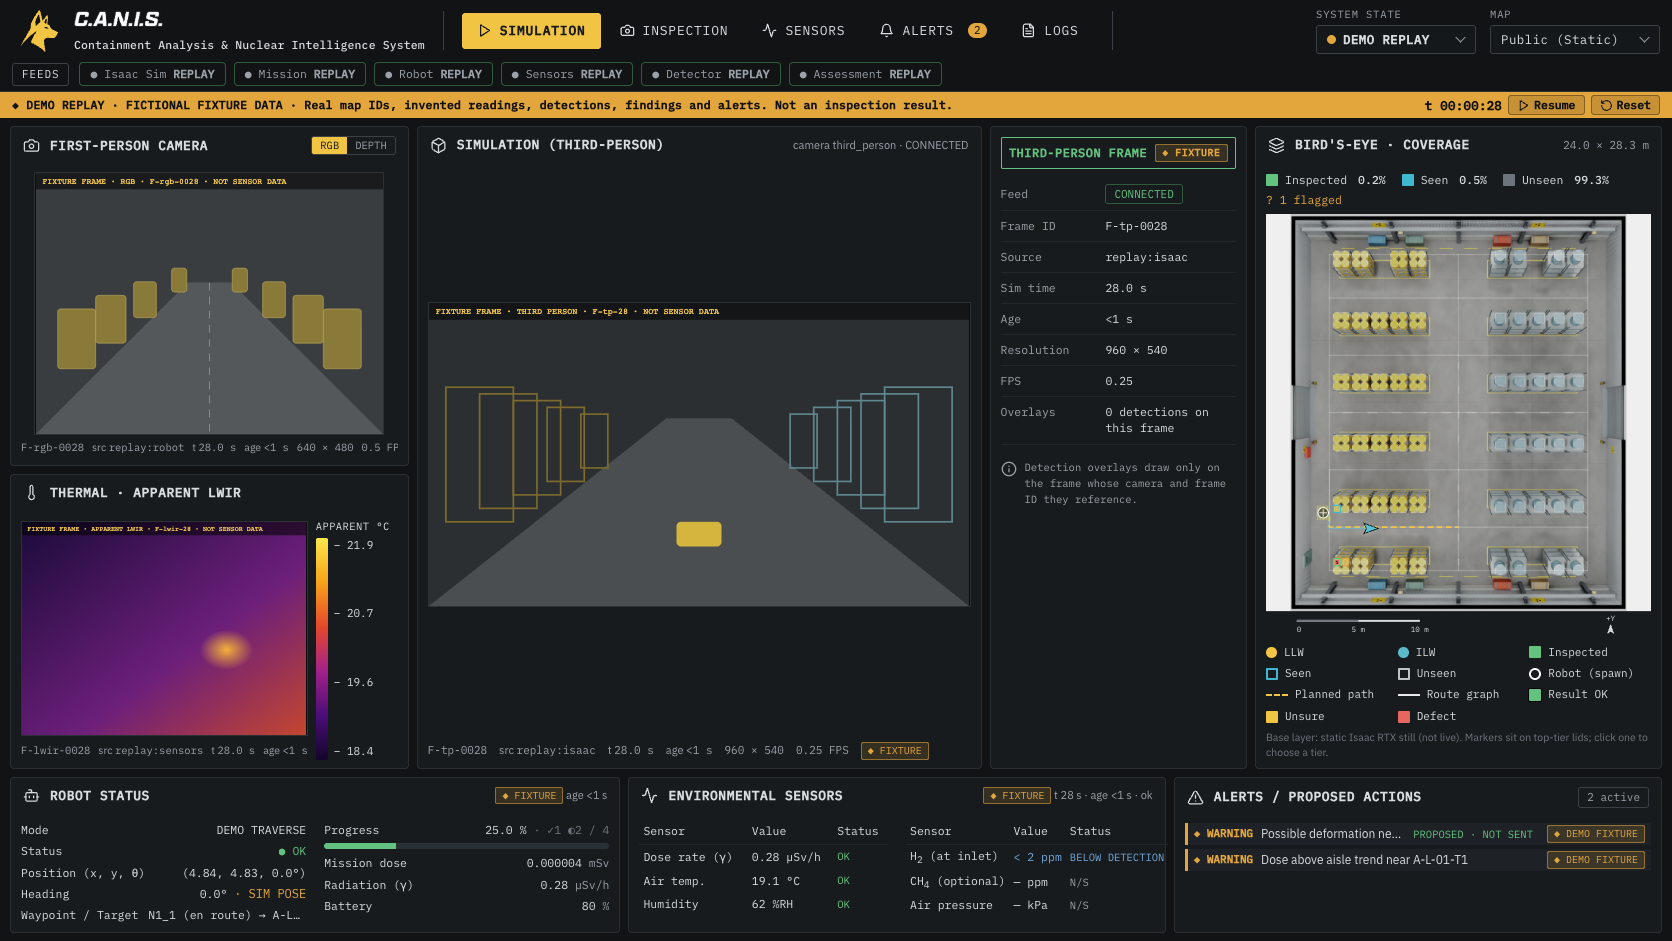
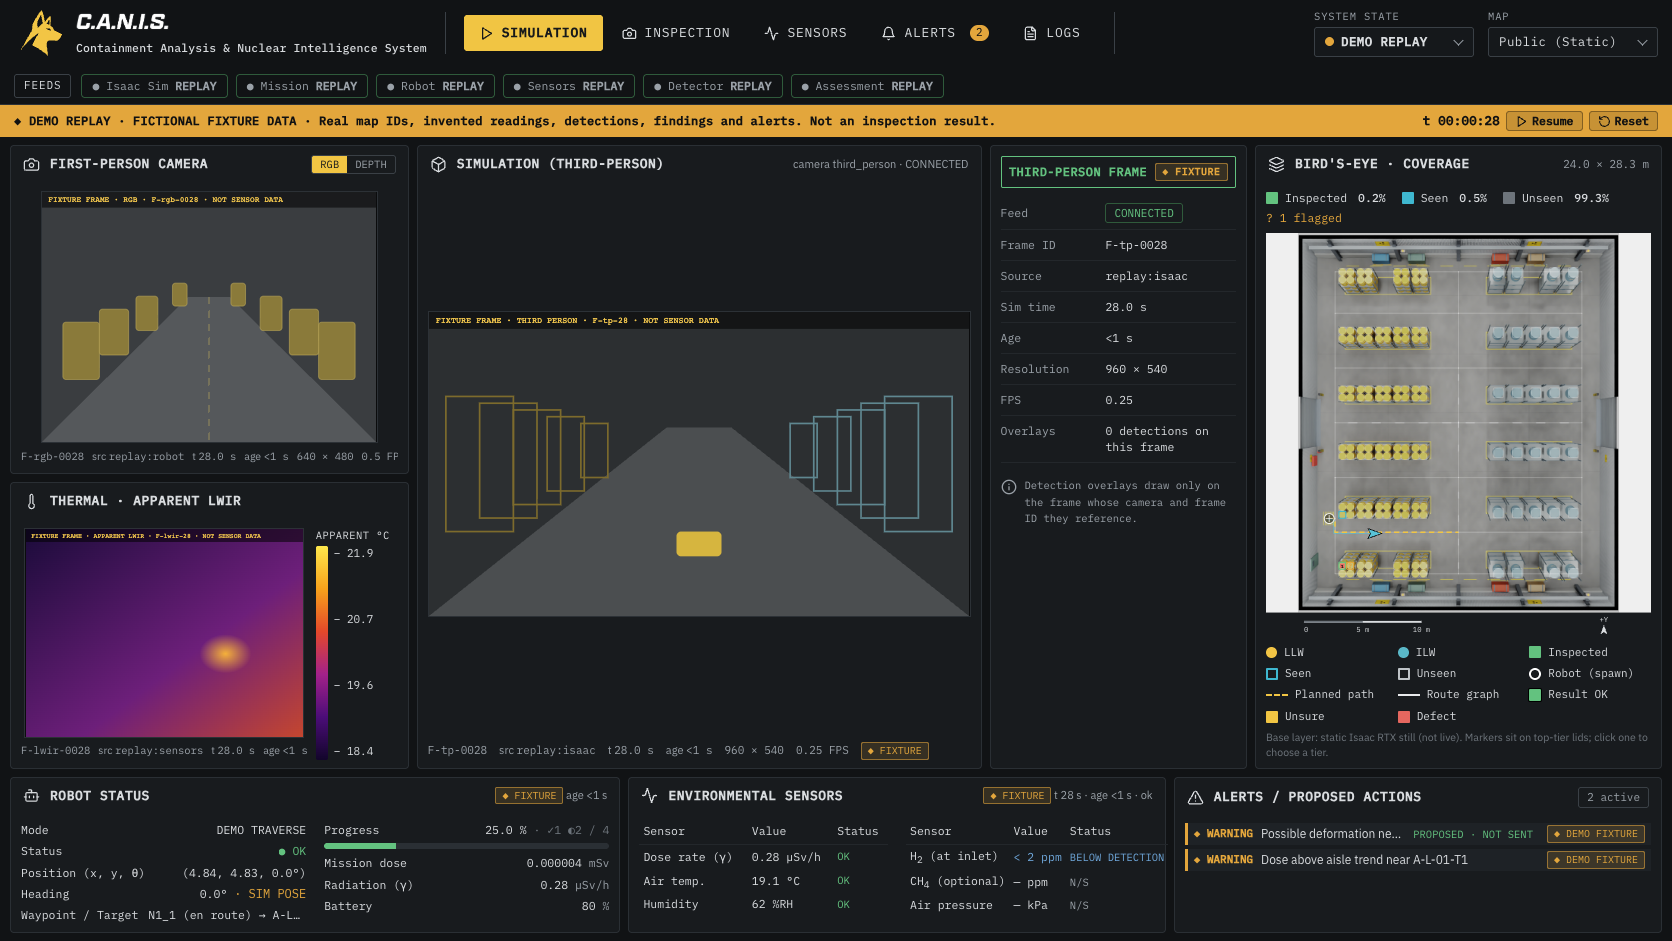
Keep the header the same size on every tab
The one-screen Simulation layout no longer shrinks the header, logo or
banner; the panel grid absorbs the space instead.

diff --git a/canis/src/styles/app.css b/canis/src/styles/app.css
@@ -350,11 +350,6 @@
   .app-one-screen .app-main { min-height: 0; display: flex; flex-direction: column; padding: 8px 10px; }
   .app-one-screen .grid-sim { flex: 1; min-height: 0; }
   .app-one-screen .app-foot { display: none; }
-  .app-one-screen .app-header { padding: 5px 10px; row-gap: 4px; }
-  .app-one-screen .brand-mark { height: 38px; }
-  .app-one-screen .brand-word { height: 19px; }
-  .app-one-screen .feed-row { padding-top: 4px; }
-  .app-one-screen .replay-banner, .app-one-screen .offline-banner { padding: 3px 12px; font-size: 11.5px; }
 }
 
 /* fallback: stacked, fixed cell heights so frames still scale */
@@ -504,11 +499,6 @@
 .cfg-row input { background: var(--panel-2); border: 1px solid var(--border-strong); border-radius: 3px; padding: 5px 8px; font-family: var(--font-mono); font-size: 12px; }
 .cfg-error { color: var(--alert); font-size: 12px; }
 
-@media (min-width: 1100px) and (min-height: 680px) {
-  .app-one-screen .app-header { padding: 7px 12px 5px; }
-  .app-one-screen .brand-mark { height: 46px; }
-  .app-one-screen .brand-word { height: 20px; }
-}
 @media (max-width: 1400px) {
   .brand-sub { display: none; }
   .tab { padding: 7px 10px; font-size: 12px; }
@@ -535,7 +525,6 @@
 .replay-banner .replay-controls button { background: rgba(0,0,0,.12); border: 1px solid rgba(0,0,0,.35); color: #111; padding: 1px 8px; font-size: 11.5px; }
 .brand-text { align-items: flex-start; }
 .brand .brand-word { height: 25px; }
-.app-one-screen .brand .brand-word { height: 24px; }
 
 .overlay-toggle { position: absolute; right: 6px; bottom: 6px; display: inline-flex; gap: 5px; align-items: center; background: rgba(0,0,0,.7); border: 1px solid var(--border-strong); color: var(--text); border-radius: 3px; padding: 2px 7px; font-family: var(--font-mono); font-size: 10.5px; }
 
